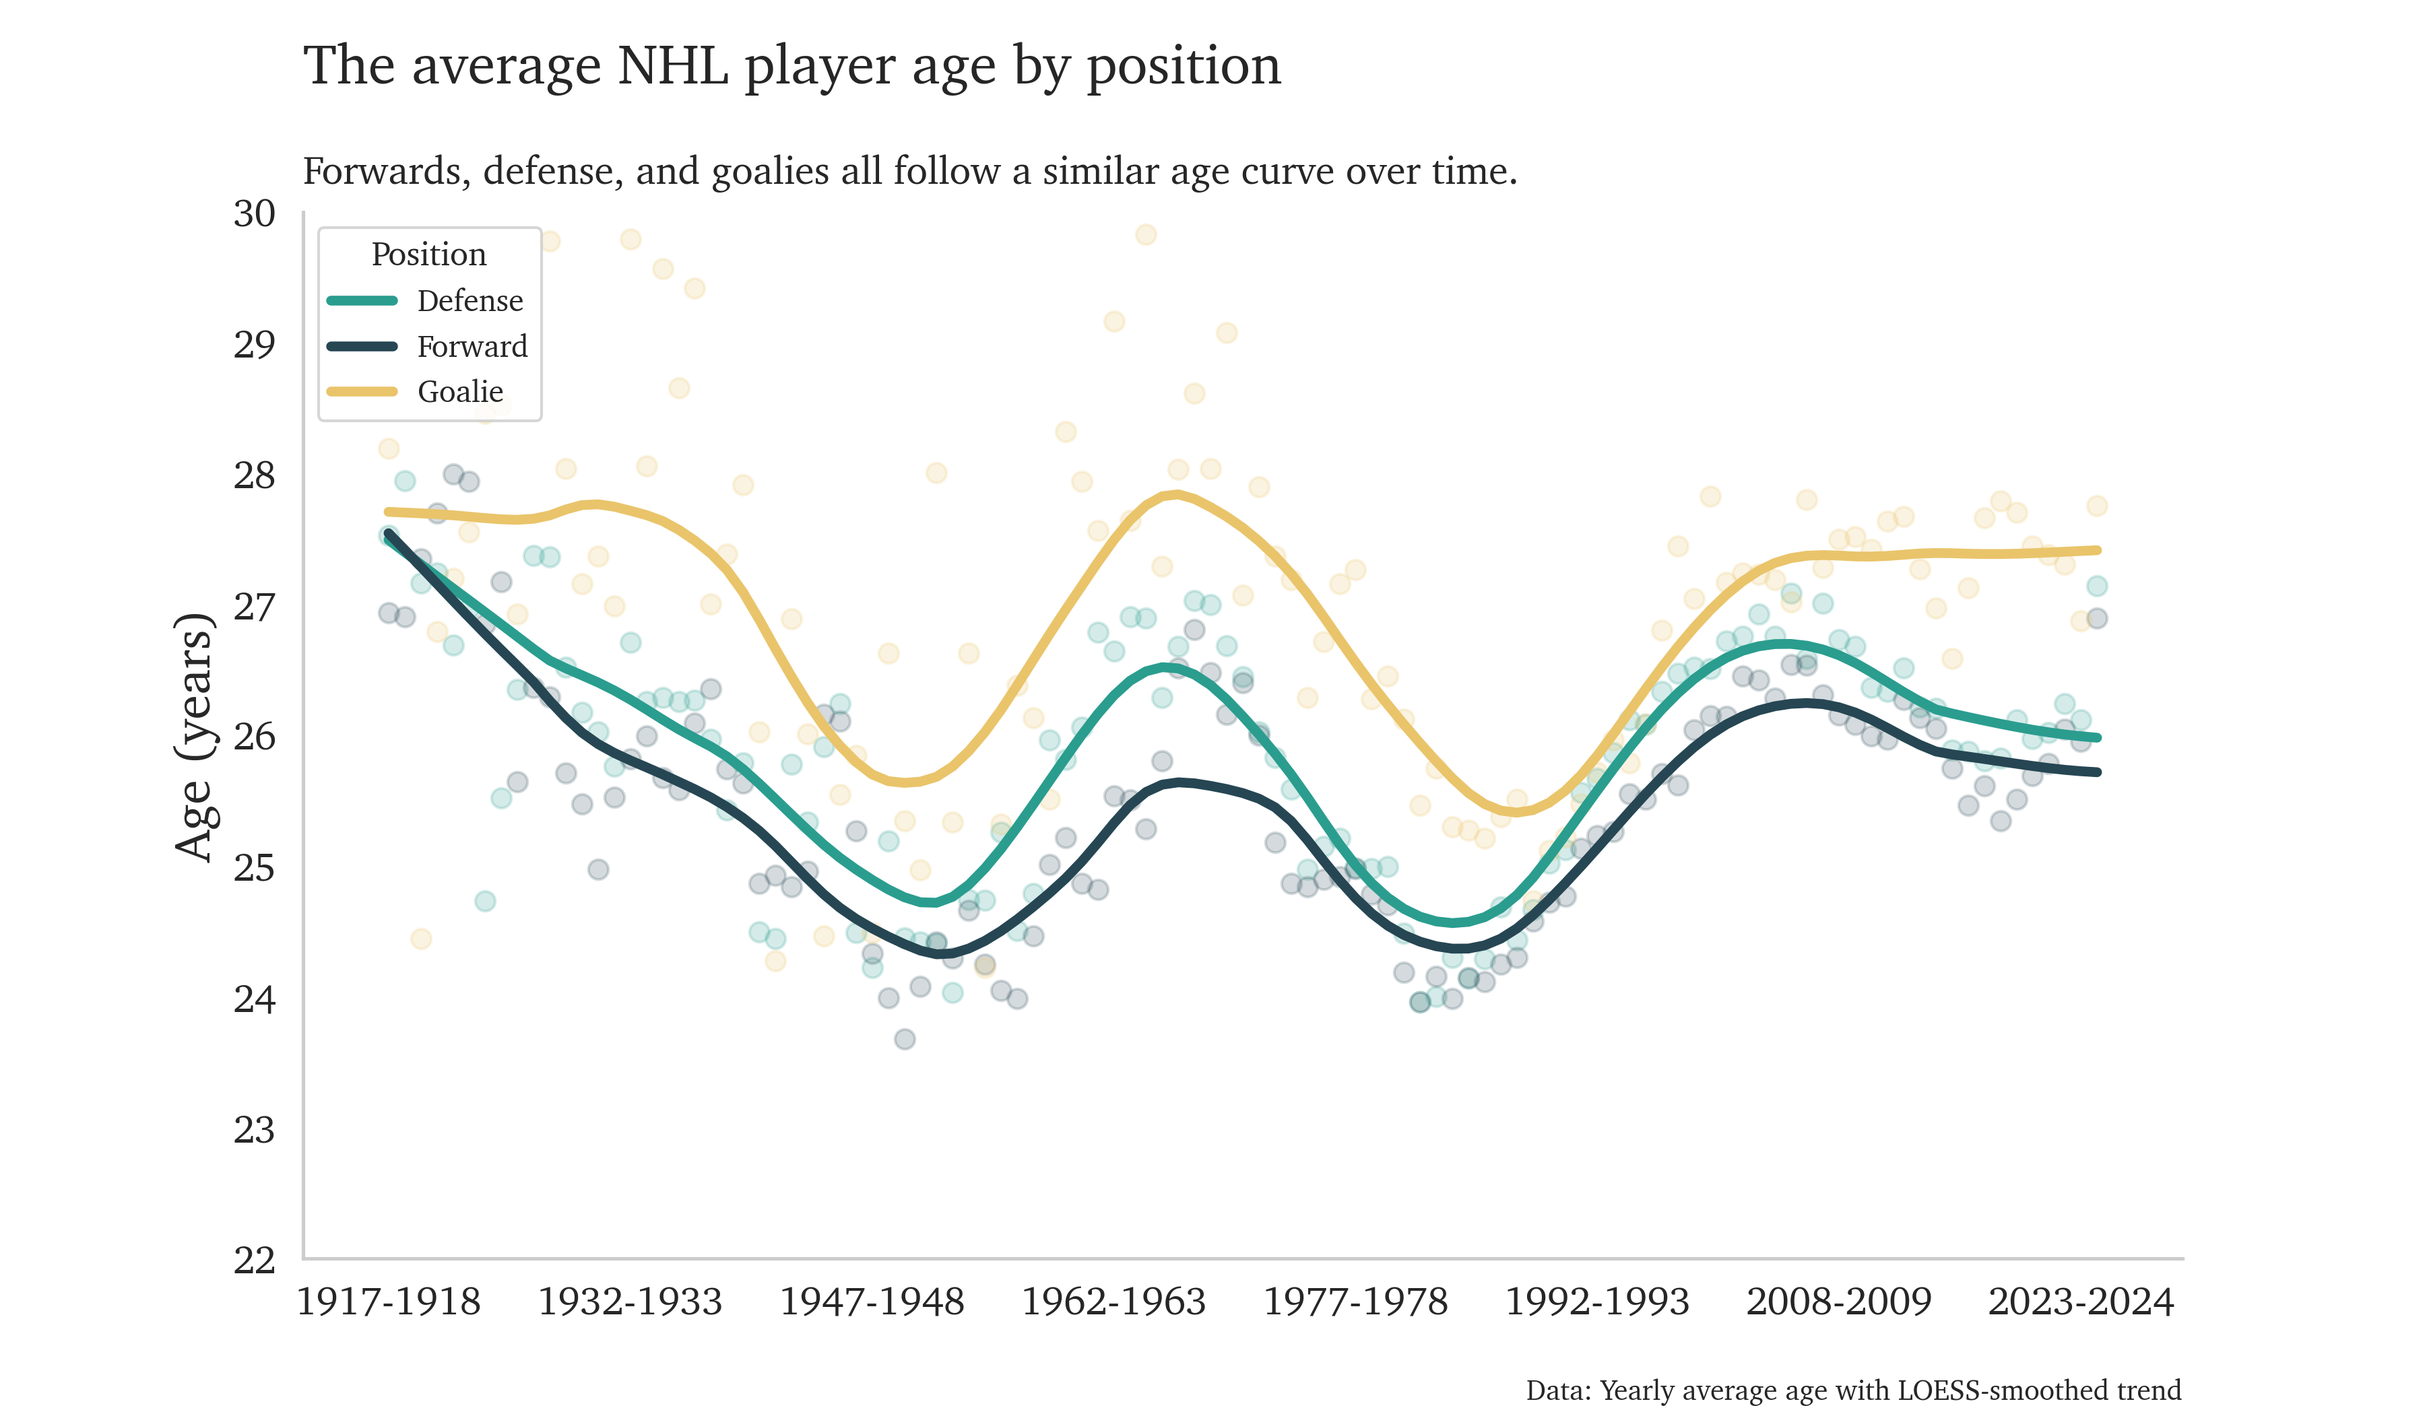
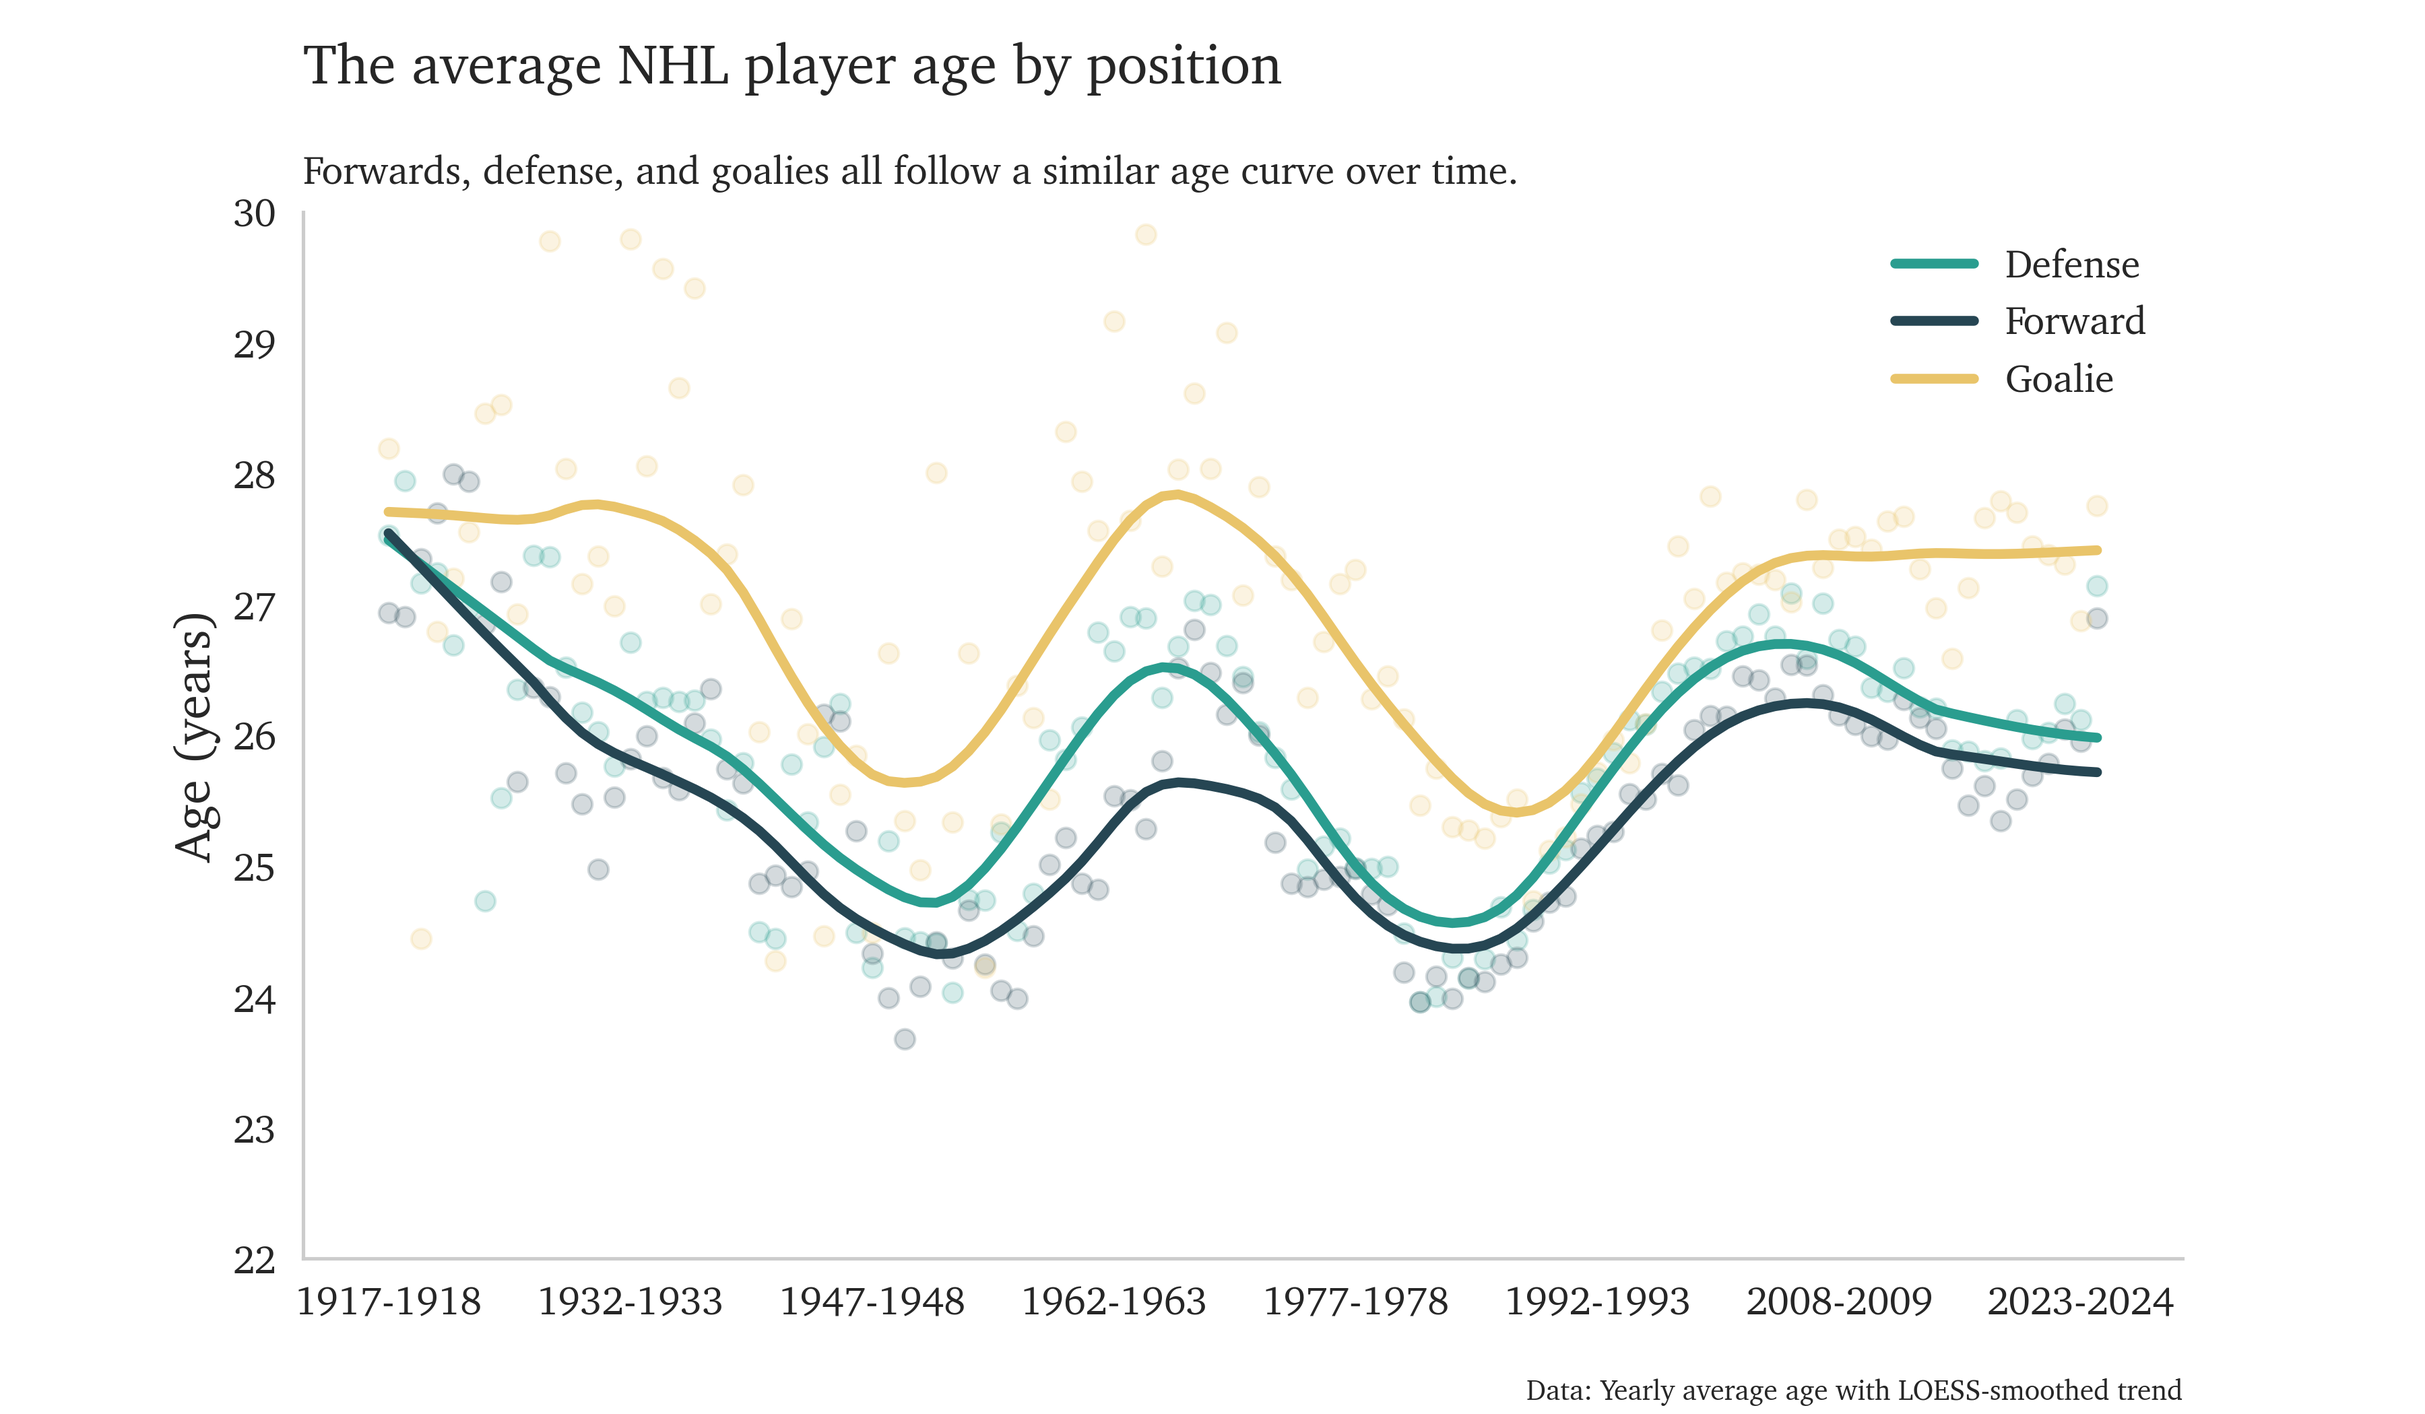
finalized the demographics deep dive

Changed region(s): [[0.1244, 0.1548, 0.2178, 0.3095], [0.7778, 0.1857, 0.9022, 0.2786]]

diff --git a/scripts/nhl-player-demographics/2. Time_Series_Descriptives.py b/scripts/nhl-player-demographics/2. Time_Series_Descriptives.py
@@ -228,55 +228,163 @@ plt.show()
 
 # ----------------------------------------------------------------------
 #
-# AGE BY YEAR
+# CLEAN AGE, HEIGHT, AND WEIGHT BY POSITION GROUP
 #
 # ----------------------------------------------------------------------
 
-# Important to start off - move the legend so it's in the other corner
-# and follows the same structure as country, with no box.
+# Get roster size by year 
+season_roster_size = roster.groupby('season')['id'].nunique()
 
-# Test quickly, should I just have it the same as country? Plot the average
-# with CI band, or plot the smoothed curve?
+# Map position to groups
+position_map = {'C': 'Forward', 'R': 'Forward', 'L': 'Forward', 'D': 'Defense', 'G': 'Goalie'}
+roster['position_group'] = roster['position'].map(position_map)
 
+# Convert height to cm
+roster['height_cm'] = roster['height_in'] * 2.54
 
-
-
-
-
-
-
-
-
-
+# Format season label
+def split_and_hyphenate(number):
+    s_number = str(number)
+    return f"{s_number[:4]}-{s_number[4:]}"
 
 
+# Plotting function
+def plot_clean_position_trend(df, value_col, ylabel, title, subtitle, filename, ylims, yticks, color_map):
+    sns.set(style="whitegrid")
+    mpl.rcParams['font.family'] = 'Charter'
+    fig, ax = plt.subplots(figsize=(12, 7))
+
+    for group in df['position_group'].unique():
+        group_df = df[df['position_group'] == group]
+
+        # Dots
+        ax.scatter(
+            group_df['x_pos'],
+            group_df[value_col],
+            color=color_map[group],
+            alpha=0.2,
+            s=50
+        )
+
+        # Smoothed LOESS line
+        smoothed = lowess(
+            endog=group_df[value_col],
+            exog=group_df['x_pos'],
+            frac=0.2,
+            return_sorted=True
+        )
+        ax.plot(
+            smoothed[:, 0],
+            smoothed[:, 1],
+            color=color_map[group],
+            linewidth=3.5,
+            label=group
+        )
+
+    ax.set_ylim(ylims)
+    ax.set_yticks(yticks)
+    ax.yaxis.set_major_formatter(FuncFormatter(lambda x, _: f"{int(round(x))}"))
+    sns.despine()
+    ax.grid(False)
+
+    tick_indices = list(range(0, len(season_labels), 15))
+    tick_labels = [season_labels[i] for i in tick_indices]
+    ax.set_xticks(tick_indices)
+    ax.set_xticklabels(tick_labels, rotation=0, fontsize=14)
+    ax.tick_params(axis='y', labelsize=14)
+    ax.set_ylabel(ylabel, fontsize=18)
+    ax.set_xlabel("")
+
+    left_x = ax.get_position().x0
+    plt.subplots_adjust(top=0.85)
+    fig.suptitle(title, fontsize=20, weight='bold', x=left_x, ha='left', y=0.97)
+    fig.text(left_x, 0.87, subtitle, fontsize=14, ha='left')
+    clean_label = {"age": "age", "height_cm": "height", "weight_lb": "weight"}.get(value_col, value_col.split("_")[0])
+    fig.text(0.9, 0.01, f"Data: Yearly average {clean_label} with LOESS-smoothed trend", 
+             fontsize=10, style='italic', ha='right')
+    legend_loc = 'upper left' if value_col == 'weight_lb' else 'upper right'
+    ax.legend(title='', loc=legend_loc, frameon = False, fontsize = 14)
+    save_figure(filename)
+    plt.show()
+
+# Loop for each variable
+for varname, ylabel, title, subtitle, filename, ylims, yticks in [
+    (
+        'age',
+        'Age (years)',
+        'The average NHL player age by position',
+        'Forwards, defense, and goalies all follow a similar age curve over time.',
+        'nhl_age_by_position.png',
+        (22, 30),
+        range(22, 31)
+    ),
+    (
+        'height_cm',
+        'Height (cm)',
+        'The average NHL player height by position',
+        'Goalies are slightly taller on average, but the trend is upward for all roles.',
+        'nhl_height_by_position.png',
+        (170, 200),
+        range(170, 201, 5)
+    ),
+    (
+        'weight_lb',
+        'Weight (lb)',
+        'The average NHL player weight by position',
+        'Weights peaked around 2010 and have trended down since.',
+        'nhl_weight_by_position.png',
+        (150, 220),                # <-- y-axis limits
+        range(150, 221, 10)        # <-- y-axis ticks
+    )
+]:
+    temp_df = roster.dropna(subset=['season', 'birth_date', 'position_group']).copy()
+    temp_df['birth_date'] = pd.to_datetime(temp_df['birth_date'])
+    temp_df['reference_date'] = pd.to_datetime(temp_df['season'].astype(str).str[:4] + '-01-01')
+
+    if varname == 'age':
+        temp_df['value'] = (temp_df['reference_date'] - temp_df['birth_date']).dt.days / 365.25
+    else:
+        temp_df['value'] = temp_df[varname]
+
+    temp_df['season_label'] = temp_df['season'].apply(split_and_hyphenate)
+
+    avg_df = (
+        temp_df.groupby(['season_label', 'position_group'])['value']
+        .mean()
+        .reset_index()
+        .rename(columns={'value': varname})
+    )
+
+    season_labels = avg_df['season_label'].unique()
+    season_to_index = {label: i for i, label in enumerate(season_labels)}
+    avg_df['x_pos'] = avg_df['season_label'].map(season_to_index)
+
+    color_map = {
+        'Forward': '#264653',
+        'Defense': '#2a9d8f',
+        'Goalie': '#e9c46a'
+    }
+
+    plot_clean_position_trend(
+        df=avg_df,
+        value_col=varname,
+        ylabel=ylabel,
+        title=title,
+        subtitle=subtitle,
+        filename=filename,
+        ylims=ylims,
+        yticks=yticks,
+        color_map=color_map
+    )
 
 
 
 
-
-
-
-
-
-
-
-
-
-
-
-
-
-
-
-
-
-
-
-
-
-
-
+# ----------------------------------------------------------------------
+#
+# UNUSED CODE; FIGURES MADE WHILE EXPLORING DATA
+#
+# ----------------------------------------------------------------------
 
 
 # ----------------------------------------------------------------------
@@ -1004,152 +1112,6 @@ plt.show()
 
 
 
-# ----------------------------------------------------------------------
-#
-# CLEAN AGE, HEIGHT, AND WEIGHT BY POSITION GROUP
-#
-# ----------------------------------------------------------------------
-
-# Map position to groups
-position_map = {'C': 'Forward', 'R': 'Forward', 'L': 'Forward', 'D': 'Defense', 'G': 'Goalie'}
-roster['position_group'] = roster['position'].map(position_map)
-
-# Convert height to cm
-roster['height_cm'] = roster['height_in'] * 2.54
-
-# Format season label
-def split_and_hyphenate(number):
-    s_number = str(number)
-    return f"{s_number[:4]}-{s_number[4:]}"
-
-
-# Plotting function
-def plot_clean_position_trend(df, value_col, ylabel, title, subtitle, filename, ylims, yticks, color_map):
-    sns.set(style="whitegrid")
-    mpl.rcParams['font.family'] = 'Charter'
-    fig, ax = plt.subplots(figsize=(12, 7))
-
-    for group in df['position_group'].unique():
-        group_df = df[df['position_group'] == group]
-
-        # Dots
-        ax.scatter(
-            group_df['x_pos'],
-            group_df[value_col],
-            color=color_map[group],
-            alpha=0.2,
-            s=50
-        )
-
-        # Smoothed LOESS line
-        smoothed = lowess(
-            endog=group_df[value_col],
-            exog=group_df['x_pos'],
-            frac=0.2,
-            return_sorted=True
-        )
-        ax.plot(
-            smoothed[:, 0],
-            smoothed[:, 1],
-            color=color_map[group],
-            linewidth=3.5,
-            label=group
-        )
-
-    ax.set_ylim(ylims)
-    ax.set_yticks(yticks)
-    ax.yaxis.set_major_formatter(FuncFormatter(lambda x, _: f"{int(round(x))}"))
-    sns.despine()
-    ax.grid(False)
-
-    tick_indices = list(range(0, len(season_labels), 15))
-    tick_labels = [season_labels[i] for i in tick_indices]
-    ax.set_xticks(tick_indices)
-    ax.set_xticklabels(tick_labels, rotation=0, fontsize=14)
-    ax.tick_params(axis='y', labelsize=14)
-    ax.set_ylabel(ylabel, fontsize=18)
-    ax.set_xlabel("")
-
-    left_x = ax.get_position().x0
-    plt.subplots_adjust(top=0.85)
-    fig.suptitle(title, fontsize=20, weight='bold', x=left_x, ha='left', y=0.97)
-    fig.text(left_x, 0.87, subtitle, fontsize=14, ha='left')
-    fig.text(0.9, 0.01, f"Data: Yearly average {value_col} with LOESS-smoothed trend", 
-             fontsize=10, style='italic', ha='right')
-
-    ax.legend(title='Position', loc='upper left')
-    save_figure(filename)
-    plt.show()
-
-# Loop for each variable
-for varname, ylabel, title, subtitle, filename, ylims, yticks in [
-    (
-        'age',
-        'Age (years)',
-        'The average NHL player age by position',
-        'Forwards, defense, and goalies all follow a similar age curve over time.',
-        'nhl_age_by_position.png',
-        (22, 30),
-        range(22, 31)
-    ),
-    (
-        'height_cm',
-        'Height (cm)',
-        'The average NHL player height by position',
-        'Goalies are slightly taller on average, but the trend is upward for all roles.',
-        'nhl_height_by_position.png',
-        (170, 200),
-        range(170, 201, 5)
-    ),
-    (
-        'weight_lb',
-        'Weight (lb)',
-        'The average NHL player weight by position',
-        'Weights peaked around 2010 and have trended down since—especially for forwards.',
-        'nhl_weight_by_position.png',
-        (150, 220),                # <-- y-axis limits
-        range(150, 221, 10)        # <-- y-axis ticks
-    )
-]:
-    temp_df = roster.dropna(subset=['season', 'birth_date', 'position_group']).copy()
-    temp_df['birth_date'] = pd.to_datetime(temp_df['birth_date'])
-    temp_df['reference_date'] = pd.to_datetime(temp_df['season'].astype(str).str[:4] + '-01-01')
-
-    if varname == 'age':
-        temp_df['value'] = (temp_df['reference_date'] - temp_df['birth_date']).dt.days / 365.25
-    else:
-        temp_df['value'] = temp_df[varname]
-
-    temp_df['season_label'] = temp_df['season'].apply(split_and_hyphenate)
-
-    avg_df = (
-        temp_df.groupby(['season_label', 'position_group'])['value']
-        .mean()
-        .reset_index()
-        .rename(columns={'value': varname})
-    )
-
-    season_labels = avg_df['season_label'].unique()
-    season_to_index = {label: i for i, label in enumerate(season_labels)}
-    avg_df['x_pos'] = avg_df['season_label'].map(season_to_index)
-
-    color_map = {
-        'Forward': '#264653',
-        'Defense': '#2a9d8f',
-        'Goalie': '#e9c46a'
-    }
-
-    plot_clean_position_trend(
-        df=avg_df,
-        value_col=varname,
-        ylabel=ylabel,
-        title=title,
-        subtitle=subtitle,
-        filename=filename,
-        ylims=ylims,
-        yticks=yticks,
-        color_map=color_map
-    )
 
 
 

diff --git a/posts/nhl-player-demographics.md b/posts/nhl-player-demographics.md
@@ -1,7 +1,7 @@
 ---
 title: "How have player demographics changed over the history of the league?"
 short_title: "Player Demographics | Hockey Decoded"
-date: "2025-07-14"
+date: "2025-09-06"
 image: ""
 data_source: "NHL API"
 ---
@@ -74,8 +74,8 @@ I think one possible reason for this cycle is simply how the league expanded and
 changed over the years. The general trend seems to be "expansion = age decline." Interestingly, the shifts in trend seem to track quite closely
 with the "eras" of the league.<sup>(<a href="https://en.wikipedia.org/wiki/Timeline_of_the_National_Hockey_League" target="_blank" rel="noopener noreferrer">4</a>)</sup> 
 Up until 1942, in the early era, the league fluctuated growing from four to ten teams,
-then back down to seven. In this era, the size of the league fluctuated between XX and YY
-players; again, more players, lower age.
+then back down to seven. In this era, the size of the league fluctuated but overall grew from
+45 players in the 1917-1918 season to 160 players in the 1941-1942 season; again, more players, lower age.
 
 Following this, 1942 to 1967 the team stayed at 6 teams, the "original six" era. As you
 can see, in this era the league slowly aged. No expansion, no injection of new players,
@@ -85,9 +85,9 @@ the league again got younger and younger. From 1991 to 2017 the league again exp
 but only 30%. Less need for new young players, more static rosters, the league ages again.
 Finally, from 2017 until now the league has only added one team, and age has stagnated.
 
-Secondly, the long term trend is that goalies have remained static around 28 years
+One other interesting recent trend is that is that goalies have remained static around 28 years
 old while forwards and defencemen have declined from 28 to about 26 years old. I suspect
-this long term age change simply reflects the speed and demands of modern athletics.
+this modern-era age change simply reflects the speed and demands of modern athletics.
 Goalies can afford to be a hair older, while skaters must deal with the increasing 
 demands of the sport and cannot afford to be older. This is a trend we have seen
 in numerous sports. Cycling grand tour winners used to be mature in their career,
@@ -147,7 +147,7 @@ Specifically, there was a large swath of rule changes in the 2005-2006 season, r
 were designed to encourage faster, more aggressive offensive play.<sup>(<a href="https://records.nhl.com/history/historical-rule-changes" rel="noopener noreferrer">8</a>)</sup> 
 For example, the league eliminated the two-line pass rule making it such that players could pass from
 their defensive zone across the red line, allowing for longer stretch passes, quick transitions, and breakaways.
-Additionally, the league reinstated the "tag-up" rule for offides, allowing an offensive player to
+Additionally, the league reinstated the "tag-up" rule for offsides, allowing an offensive player to
 simply pop one skate out of the zone and re-enter. This, as opposed to having to fully exit the zone,
 come to a stop, and re-enter, allows the game to maintain a faster more aggressive pace.
 
